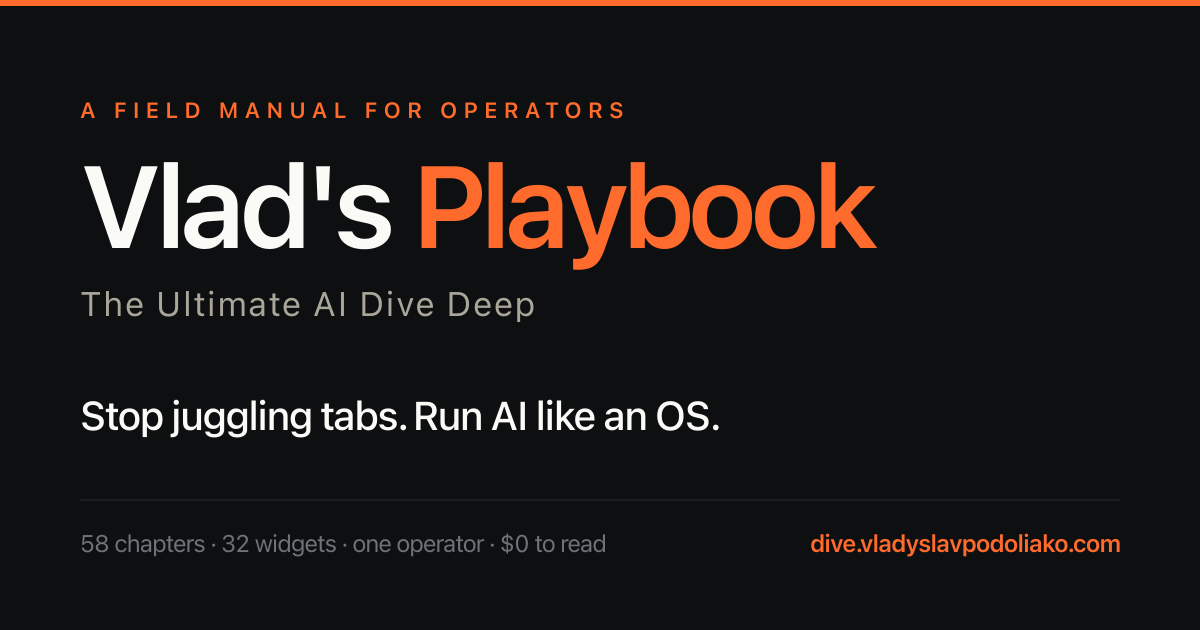
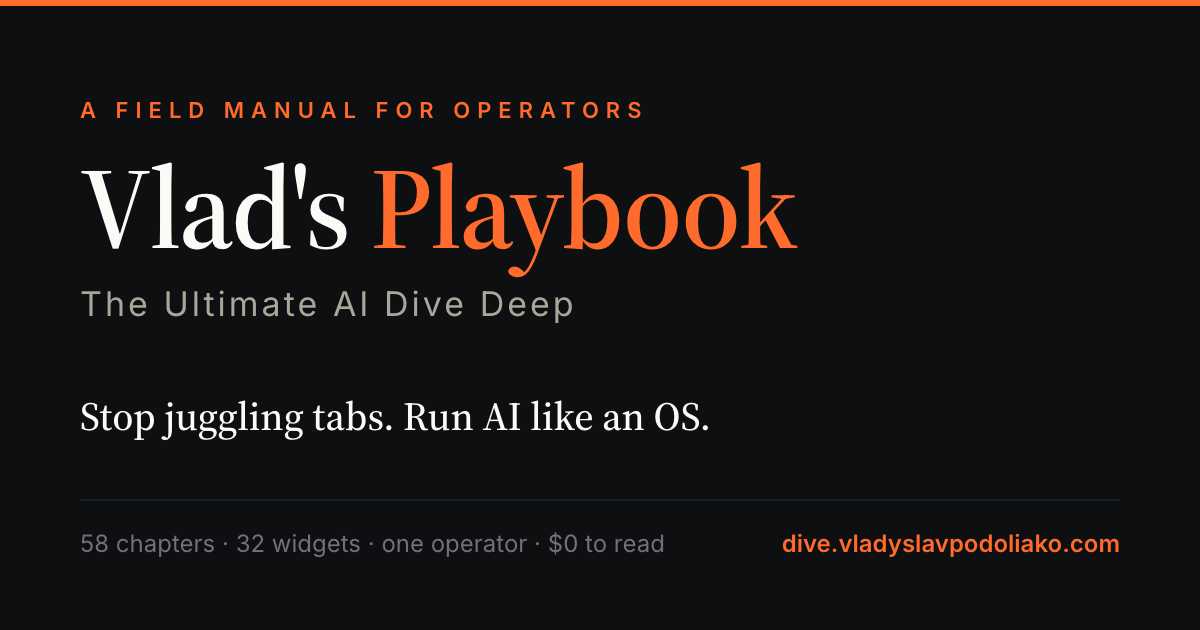
feat(chapter): end every chapter with a cite and share block
Every chapter now ends with 'Cite this chapter': the citation, the
licence, two copy buttons and three share links. The four header links
take the plain text colour, and the default share card is set in the
serif.

diff --git a/docs/DESIGN-SYSTEM.md b/docs/DESIGN-SYSTEM.md
@@ -558,7 +558,7 @@ Sticky header: `sticky top-0 z-40 backdrop-blur border-b`, `bg --bg / 0.78`, `h-
 - **Wordmark** "Vlad's Playbook" (`font-display text-lg`) + edition pill (`xl:` only).
 - **Desktop tabs:** progressive — `lg` shows 5 (Start here, Learn, Journey, Questions, Setup),
   `xl` adds 2 (Resources, Tier list). Each: `whitespace-nowrap text-sm px-2.5 py-2 rounded
-  hover:bg-white/5`. "Start here" = accent, "Learn" = accent-2, rest = `--fg/0.85`.
+  hover:bg-white/5`, all in one colour, `--fg/0.85` (mint stays for system state, rule 4).
   ⚠ **Hard ~7-tab budget** capped by the 1152px container — new tabs must use `whitespace-nowrap`
   + a breakpoint, or they wrap.
 - **Read-counter** (`font-mono`, accent-2 outline, hidden until ≥1 chapter read).
